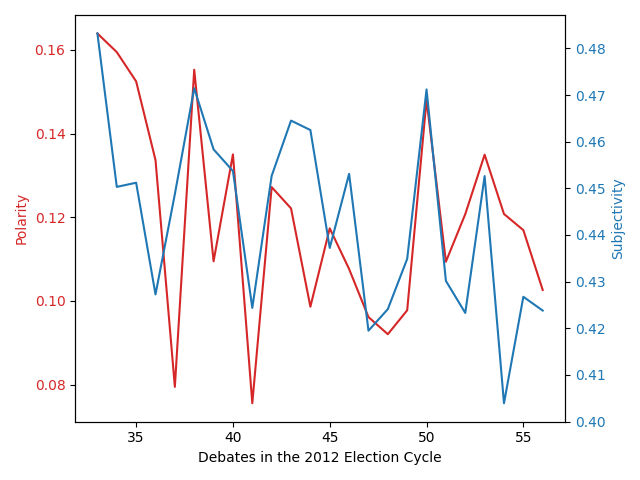
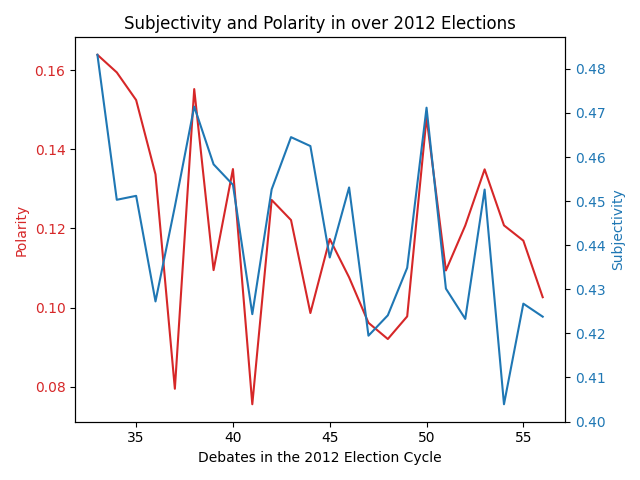
Updated Plots to include Titles

diff --git a/scripts/NLP/single-party-plots.py b/scripts/NLP/single-party-plots.py
@@ -2,28 +2,35 @@ import pandas as pd
 import matplotlib.pyplot as plt
 
 data = pd.read_csv("../../data/debate_transcripts_v3_sentiment.csv")
-by_cycle_subjectivity = data[data["party"]=="Democratic Party"].groupby("election_cycle")["subjectivity"].mean()
-by_cycle_polarity = data[data["party"]=="Democratic Party"].groupby("election_cycle")["polarity"].mean()
+
+parties = [("Democratic Party","dem"), ("Republican Party","rep")]
 
 
-fig, ax1 = plt.subplots()
+for p in parties:
 
-plt.xticks(by_cycle_polarity.index, rotation = 90)
+    by_cycle_subjectivity = data[data["party"]==p[0]].groupby("election_cycle")["subjectivity"].mean()
+    by_cycle_polarity = data[data["party"]==p[0]].groupby("election_cycle")["polarity"].mean()
 
-color = 'tab:red'
-ax1.set_xlabel('Election Cycle')
-ax1.set_ylabel('Polarity', color=color)
-ax1.plot(by_cycle_polarity, color=color)
-ax1.tick_params(axis='y', labelcolor=color)
 
-ax2 = ax1.twinx()  # instantiate a second axes that shares the same x-axis
+    fig, ax1 = plt.subplots()
 
-color = 'tab:blue'
-ax2.set_ylabel('Subjectivity', color=color)  # we already handled the x-label with ax1
-ax2.plot(by_cycle_subjectivity, color=color)
-ax2.tick_params(axis='y', labelcolor=color)
+    plt.xticks(by_cycle_polarity.index, rotation = 90)
 
-fig.tight_layout()  # otherwise the right y-label is slightly clipped
-print(plt.xticks())
-plt.savefig('../../plots/election_cycle_means_dem.png')
-plt.show()
+    color = 'tab:red'
+    ax1.set_xlabel('Election Cycle')
+    ax1.set_ylabel('Polarity', color=color)
+    ax1.plot(by_cycle_polarity, color=color)
+    ax1.tick_params(axis='y', labelcolor=color)
+
+    ax2 = ax1.twinx()  # instantiate a second axes that shares the same x-axis
+
+    color = 'tab:blue'
+    ax2.set_ylabel('Subjectivity', color=color)  # we already handled the x-label with ax1
+    ax2.plot(by_cycle_subjectivity, color=color)
+    ax2.tick_params(axis='y', labelcolor=color)
+
+    plt.title("Subjectivity and Polarity in " + p[0] + " Primaries")
+    fig.tight_layout()  # otherwise the right y-label is slightly clipped
+    print(plt.xticks())
+    plt.savefig('../../plots/election_cycle_means_'+p[1]+'.png')
+    plt.show()

diff --git a/scripts/NLP/nlp-trends-in-cycles.py b/scripts/NLP/nlp-trends-in-cycles.py
@@ -2,26 +2,31 @@ import pandas as pd
 import matplotlib.pyplot as plt
 
 data = pd.read_csv("../../data/debate_transcripts_v3_sentiment.csv")
-select_cycle = data[data["election_cycle"] == 2016]
-print(select_cycle)
 
-fig, ax1 = plt.subplots()
+years = [2008, 2012, 2016]
 
-color = 'tab:red'
-ax1.set_xlabel('Debates in the 2016 Election Cycle')
-ax1.set_ylabel('Polarity', color=color)
-ax1.plot(select_cycle["polarity"], color=color)
-ax1.tick_params(axis='y', labelcolor=color)
+for y in years:
+    select_cycle = data[data["election_cycle"] == y]
+    print(select_cycle)
 
-ax2 = ax1.twinx()  # instantiate a second axes that shares the same x-axis
+    fig, ax1 = plt.subplots()
 
-color = 'tab:blue'
-ax2.set_ylabel('Subjectivity', color=color)  # we already handled the x-label with ax1
-ax2.plot(select_cycle["subjectivity"], color=color)
-ax2.tick_params(axis='y', labelcolor=color)
+    color = 'tab:red'
+    ax1.set_xlabel('Debates in the '+str(y)+' Election Cycle')
+    ax1.set_ylabel('Polarity', color=color)
+    ax1.plot(select_cycle["polarity"], color=color)
+    ax1.tick_params(axis='y', labelcolor=color)
 
-fig.tight_layout()  # otherwise the right y-label is slightly clipped
-print(plt.xticks())
-plt.savefig('../../plots/2016-election-trends.png')
+    ax2 = ax1.twinx()  # instantiate a second axes that shares the same x-axis
 
-plt.show()
+    color = 'tab:blue'
+    ax2.set_ylabel('Subjectivity', color=color)  # we already handled the x-label with ax1
+    ax2.plot(select_cycle["subjectivity"], color=color)
+    ax2.tick_params(axis='y', labelcolor=color)
+
+    plt.title("Subjectivity and Polarity in over "+str(y)+" Elections")
+    fig.tight_layout()  # otherwise the right y-label is slightly clipped
+    print(plt.xticks())
+    plt.savefig('../../plots/'+str(y)+'-election-trends.png')
+
+    plt.show()

diff --git a/scripts/NLP/general-election-plots.py b/scripts/NLP/general-election-plots.py
@@ -23,6 +23,7 @@ ax2.set_ylabel('Subjectivity', color=color)  # we already handled the x-label wi
 ax2.plot(by_cycle_subjectivity, color=color)
 ax2.tick_params(axis='y', labelcolor=color)
 
+plt.title("Subjectivity and Polarity in General Elections")
 fig.tight_layout()  # otherwise the right y-label is slightly clipped
 print(plt.xticks())
 plt.savefig('../../plots/general_election_cycle_means.png')

diff --git a/scripts/NLP/nlp-plots.py b/scripts/NLP/nlp-plots.py
@@ -23,6 +23,7 @@ ax2.set_ylabel('Subjectivity', color=color)  # we already handled the x-label wi
 ax2.plot(by_cycle_subjectivity, color=color)
 ax2.tick_params(axis='y', labelcolor=color)
 
+plt.title("Subjectivity and Polarity in Elections")
 fig.tight_layout()  # otherwise the right y-label is slightly clipped
 print(plt.xticks())
 plt.savefig('../../plots/election_cycle_means.png')
